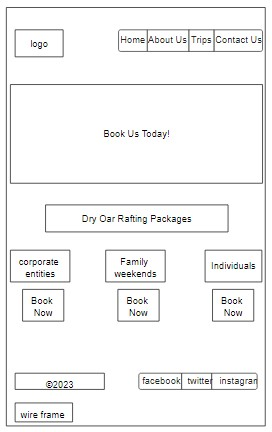
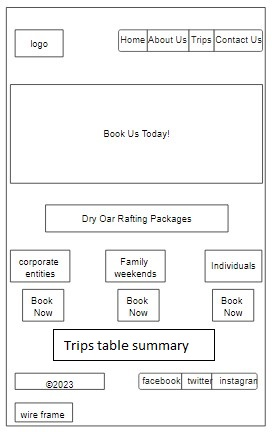
update

Changed region(s): [[0.2353, 0.7824, 0.7059, 0.8426], [0.7647, 0.7523, 0.7941, 0.8426], [0.1765, 0.7523, 0.2059, 0.8426]]

diff --git a/wwr/index.html b/wwr/index.html
@@ -23,57 +23,21 @@
     </header>
     <main>
       <div class="hero">
-        <img src="images/homeback.jpg" alt="background hero image"
-        width="100%">
-        <h1>home</h1>
+        <img src="images/homeback.jpg" alt="background hero image" width="800">
+      <h1>Welcome</h1>
+        <article>
+          <button onclick="window.location.href='trips.html'">TAKE AN ADVENTURE</button>
+          </article>
       </div>
-        <section>
-          
-         <!-- <p>To make a reservation, you can use our booking widgets below or call us at 800-892-9223. 
-            If you prefer to book online, please note that we require at least 3 days' notice in advance. 
-            Please be aware that certain dates may not be available if they are fully booked.</p>
-          
-        </section>
-        <section> 
-            <h2>SPECIAL RAFTING PACKAGES</h2>
-           <div class="fig">
-            <div class="package">
-           <figure> 
-              <img src="images/corp.jpg" alt="corporate entities"> 
-              <figcaption>Corporate Package</figcaption> 
-            </figure> 
-            <input type="submit" value="BOOK NOW">
-          </div>
-          <div class="package">
-            <figure> 
-              <img src="images/fam.jpg" alt="pic2"> 
-              <figcaption>Family Package</figcaption>
-              
-            </figure>  
-            <input type="submit" value="BOOK NOW"> 
-          </div>
-          <div class="package">
-            <figure> 
-              <img src="images/indiv.jpg" alt="pic3"> 
-              <figcaption>Bear River</figcaption> 
-             
-            </figure>  
-            <input type="submit" value="BOOK NOW">  
-        </div>
-           </div>
-          </section> -->
-          <h4>Send Us a Message</h4>
           <div class="form">
             <form>
-                <h2>Newsletter sub</h2>
+                <h2>Subscribe to Newsletter</h2>
             <p>Type Your Name</p>
             <label for="username">e.g:john_smith</label>
             <input type="text" id="username" name="username">
-
             <p>Type Your Email</p>
             <label for="useremail">e.g:js@mail.com</label>
             <input type="text" id="useremail" name="useremail">
-            <label>
             <input type="checkbox" id="newsletter" name="newsletter" value="subscribe">
             <label for="newsletter">Please subscribe me to the monthly newsletter</label>
             <input type="submit" value="Submit Button">
@@ -93,7 +57,7 @@
               <img src="images/instagram.webp" alt="Instagram">      
             </a>
           </nav>
-          <a href="images/tripswireframe.jpg">Trips Page Wireframe</a>
+          <a href="images/homewireframe.jpg">Home Page Wireframe</a>
     </footer>
 </body>
 </html>

diff --git a/wwr/trips.html b/wwr/trips.html
@@ -26,6 +26,9 @@
         <img src="images/backgroundimage.jpg" alt="background hero image"
         width="800">
         <h1>BOOK YOUR TRIP!</h1>
+        <article>
+          <button onclick="window.location.href='contact.html'">CONTACT US TODAY</button>
+          </article>
       </div>
         <section>
           
@@ -61,6 +64,39 @@
         </div>
            </div>
           </section>
+
+          <br><br>
+          <table>
+            <thead>
+              <tr>
+                <th>Trip Name</th>
+                <th>Destination</th>
+                <th>Duration</th>
+                <th>Cost</th>
+              </tr>
+            </thead>
+            <tbody>
+              <tr>
+                <td>Corporate Package</td>
+                <td>Paris, France</td>
+                <td>7 days</td>
+                <td>$2000</td>
+              </tr>
+              <tr>
+                <td>Family Package</td>
+                <td>Cancun, Mexico</td>
+                <td>5 days</td>
+                <td>$1500</td>
+              </tr>
+              <tr>
+                <td>Individual Packfe</td>
+                <td>New York City, USA</td>
+                <td>4 days</td>
+                <td>$1200</td>
+              </tr>
+            </tbody>
+          </table>
+          
     </main>
     <footer>
       <p>&copy; 2023 | DRY OAR RAFTING CO. | Michael Mensah</p>

diff --git a/wwr/styles/rafting.css b/wwr/styles/rafting.css
@@ -215,3 +215,59 @@ input:focus,
   width: 20%;
   height: 20%;
 }
+
+/*
+table {
+  display: grid;
+  grid-template-columns: repeat(4, 1fr);
+  grid-gap: 10px;
+  border-collapse: collapse;
+}
+
+thead th,
+tbody td {
+  padding: 10px;
+  border: 1px solid #ddd;
+  text-align: left;
+}
+
+thead {
+  background-color: #f2f2f2;
+}
+
+tbody tr:nth-child(even) {
+  background-color: #f2f2f2;
+}
+*/
+
+
+table {
+  
+  border-collapse: collapse;
+  margin: 0 auto;
+  width: 80%;
+  font-family: Arial, sans-serif;
+  text-align: left;
+}
+
+th {
+  background-color: #007bff;
+  color: #fff;
+  font-weight: bold;
+  padding: 10px;
+}
+
+td {
+  border: 1px solid #ddd;
+  padding: 10px;
+}
+
+tbody tr:nth-child(even) {
+  background-color: #f2f2f2;
+}
+
+tbody tr:hover {
+  background-color: #ddd;
+  cursor: pointer;
+}
+
